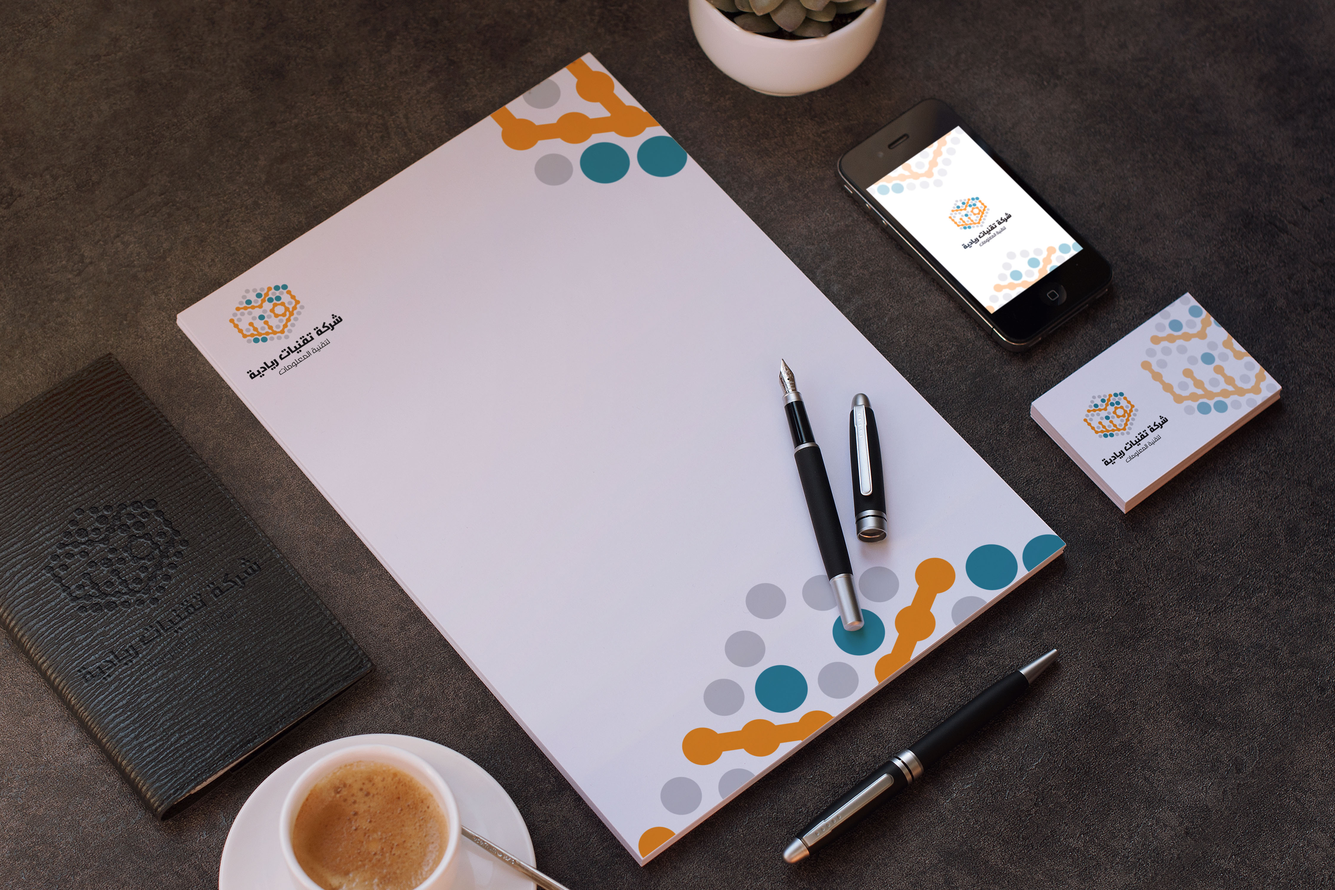
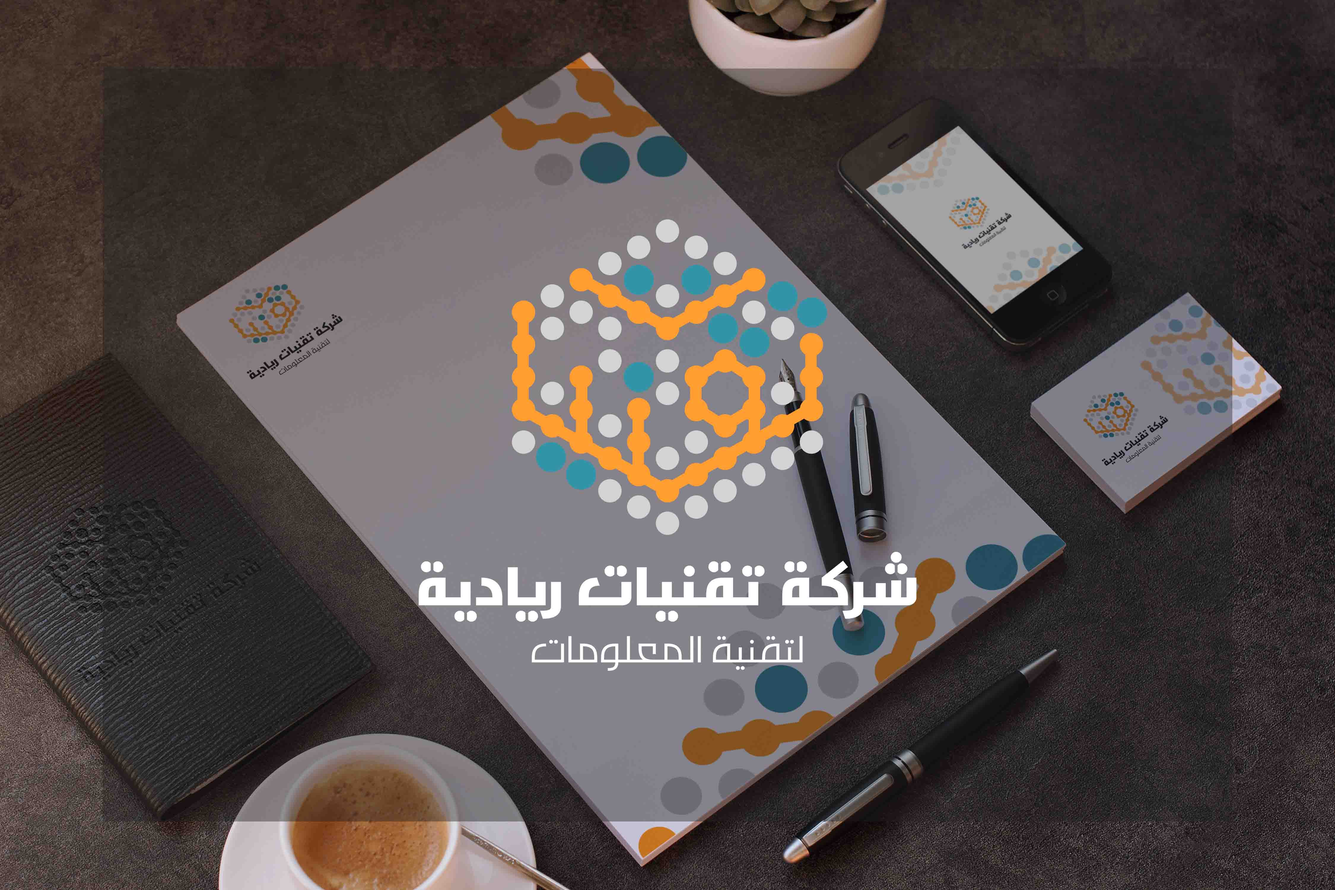
edit home page

diff --git a/index.html b/index.html
@@ -169,7 +169,7 @@
     <!-- star row section-two -->
     <div class="row home">
         <div class="col-md-6 col-sm-4 img-right-home">
-            <div class="logo-home-about" style="background-image: url('img-n/logo-text.png')"></div>
+            <!-- <div class="logo-home-about" style="background-image: url('img-n/logo-text.png')"></div> -->
         </div>
         <div class="col-md-6 col-sm-8 content-left-home">
             <div class="text-right">

diff --git a/css/style.css b/css/style.css
@@ -289,7 +289,7 @@ ul.list-social-icons a i{
     border-color: #f98505;
 }
 .home .img-right-home::before{
-    background: rgba(80, 79, 79, 0.7);
+    background: rgba(80, 79, 79, 0);
 }
 .logo-home-about{
     height: 150px;
